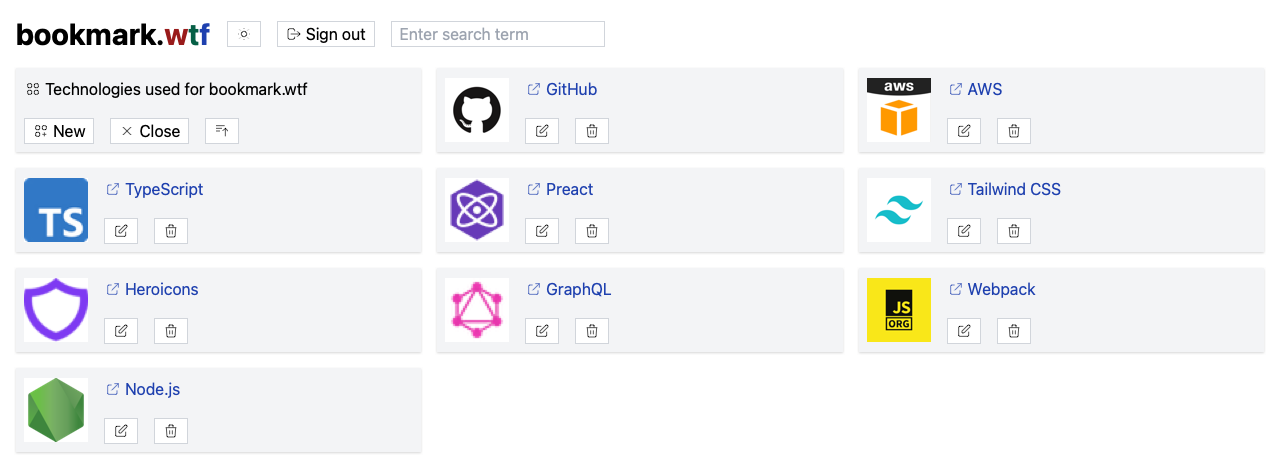
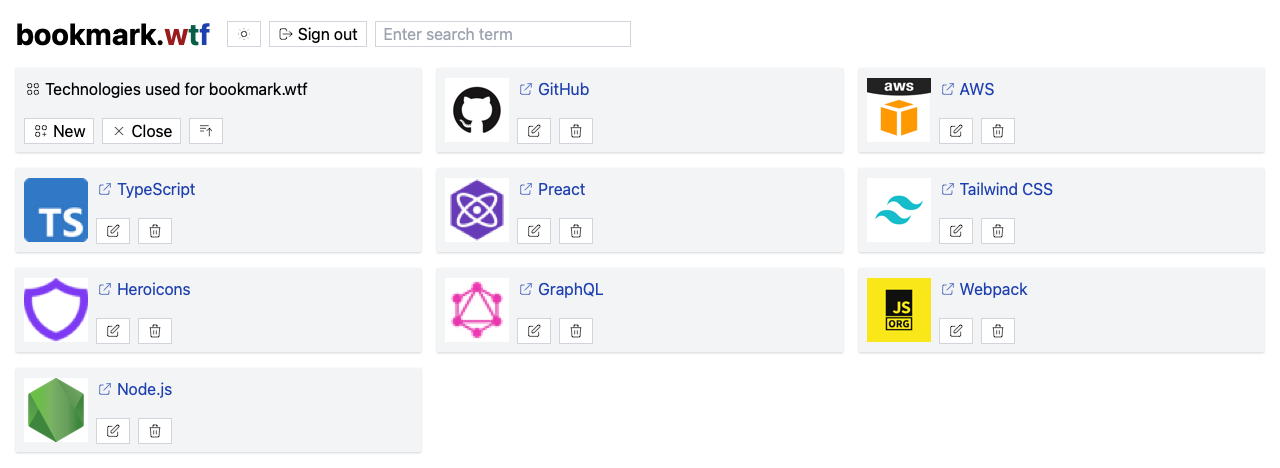
Harmonize the horizontal spacings

diff --git a/src/components/grid-item.tsx b/src/components/grid-item.tsx
@@ -24,7 +24,7 @@ export function GridItem({
     <div
       class={join([
         className,
-        'flex space-x-4 p-2 shadow',
+        'flex space-x-2 p-2 shadow',
         Colors.shadedBackground(),
         highlight && Colors.highlightRing(),
       ])}
@@ -32,9 +32,9 @@ export function GridItem({
       {leftCol && <div class="flex flex-shrink-0 items-center">{leftCol}</div>}
 
       <div class="flex flex-col space-y-4 w-full overflow-hidden">
-        <div class="flex space-x-4 w-full">{row1}</div>
+        <div class="flex space-x-2 w-full">{row1}</div>
 
-        <div class="flex space-x-4 w-full">
+        <div class="flex space-x-2 w-full">
           {row2 || <Label static>{'\u00A0'}</Label>}
         </div>
       </div>

diff --git a/src/components/topbar-item.tsx b/src/components/topbar-item.tsx
@@ -5,5 +5,5 @@ export interface GridItemProps {
 }
 
 export function TopbarItem({children}: GridItemProps): JSX.Element {
-  return <div class="flex items-center space-x-4">{children}</div>;
+  return <div class="flex items-center space-x-2">{children}</div>;
 }

diff --git a/src/components/search-form.tsx b/src/components/search-form.tsx
@@ -14,7 +14,7 @@ export function SearchForm(): JSX.Element {
   }, []);
 
   return (
-    <div class="flex space-x-4 max-w-xs">
+    <div class="w-full md:w-64">
       <TextField
         value={searchTerm.value}
         placeholder="Enter search term"
